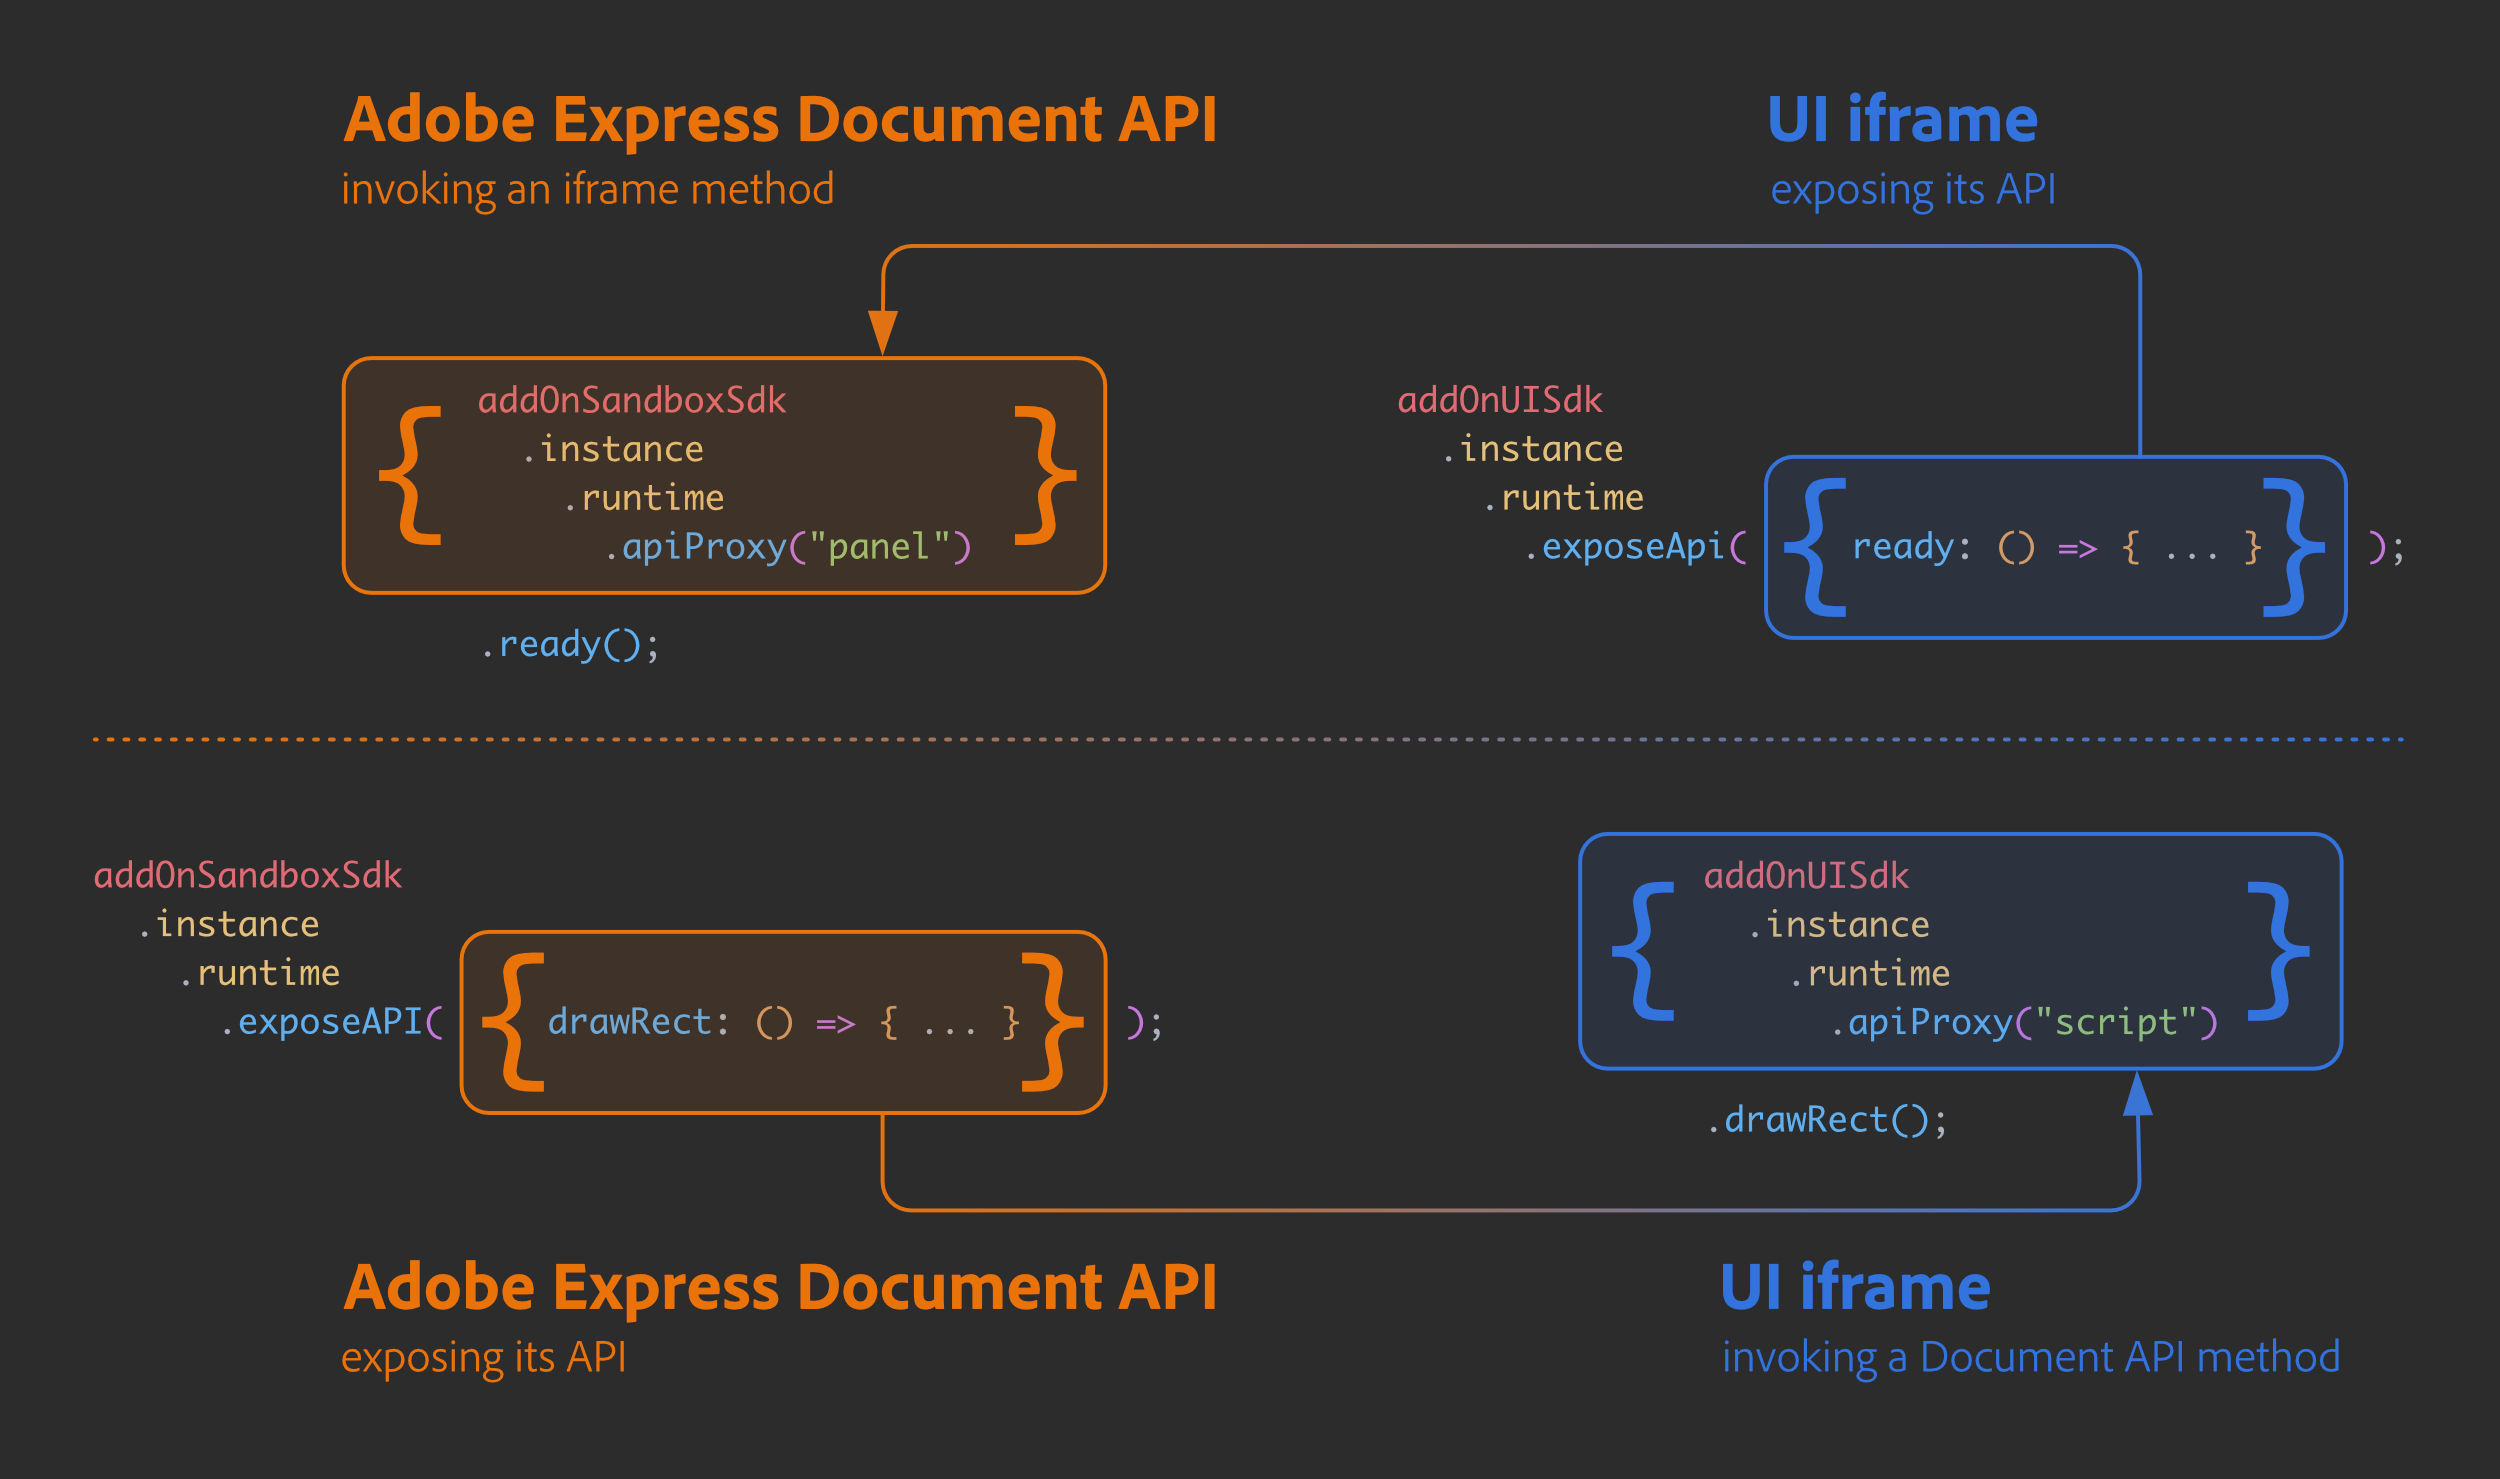
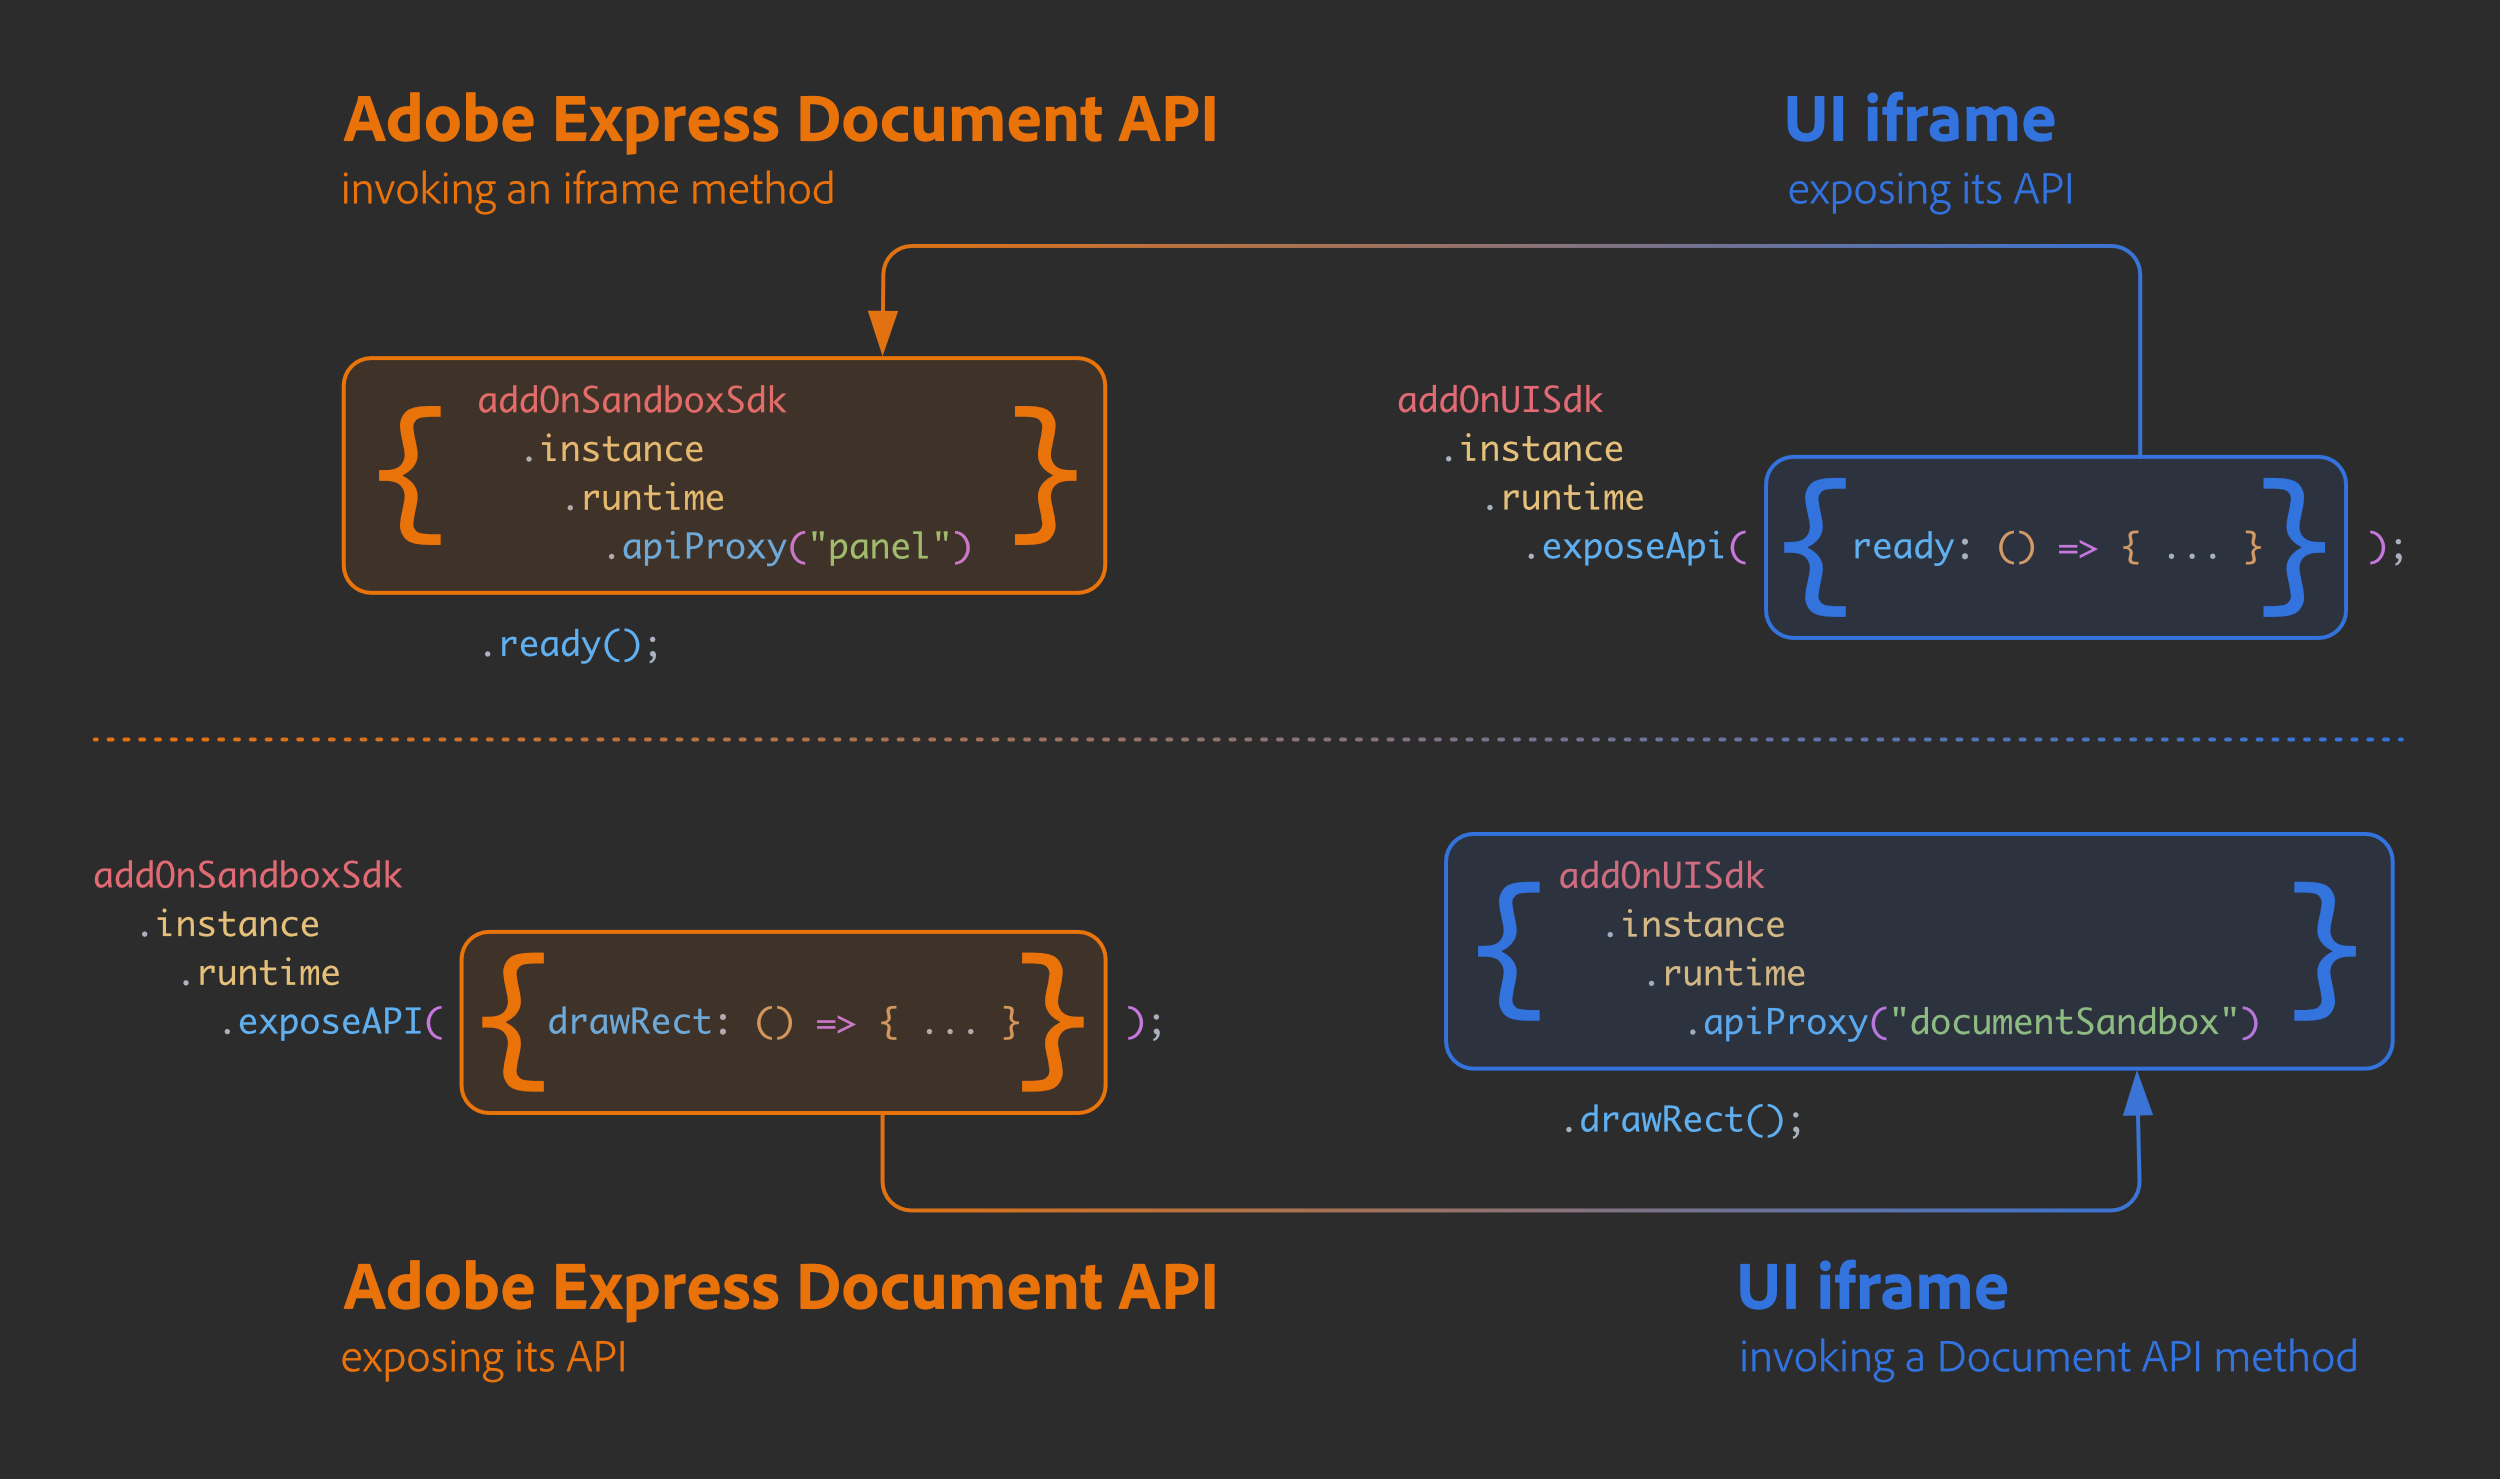
Fix MVP imports and naming Fix screenshots Fix allChildren iterator

diff --git a/src/pages/guides/tutorials/stats-addon.md b/src/pages/guides/tutorials/stats-addon.md
@@ -75,7 +75,7 @@ import addOnUISdk from "https://new.express.adobe.com/static/add-on-sdk/sdk.js";
 const { runtime } = addOnUISdk.instance;
 
 // runtime in the Document Sandbox
-import addOnSandboxSdk from "AddOnScriptSdk";
+import addOnSandboxSdk from "add-on-sdk-document-sandbox";
 const { runtime } = addOnSandboxSdk.instance;
 ```
 
@@ -90,15 +90,11 @@ We'll get to the details of such a payload in a short while; for the moment, thi
 
 ```js
 // UI iframe, importing a payload from the Document Sandbox
-const sandboxProxy = await runtime.apiProxy("script");
+const sandboxProxy = await runtime.apiProxy("documentSandbox");
 
 // Document Sandbox, importing a payload from the UI iframe
 const panelUIProxy = await runtime.apiProxy("panel");
 ```
-
-<InlineAlert slots="text" variant="warning"/>
-
-Warning: the `apiProxy()` string argument `"script"` may be subject to change in future releases.
 
 At this point, `sandboxProxy` and `panelUIProxy` represent their counterparts from the original contexts. It all may be easier to understand when the entire process is written down; for example, in the following code, we expose a custom method called `ready()` defined in the UI iframe to the Document API.
 
@@ -121,7 +117,7 @@ runtime.exposeApi({
 #### Document Sandbox
 
 ```js
-import addOnSandboxSdk from "AddOnScriptSdk";
+import addOnSandboxSdk from "add-on-sdk-document-sandbox";
 const { runtime } = addOnSandboxSdk.instance;
 
 // importing from the iframe
@@ -138,8 +134,20 @@ As the name implies, the `panelUIProxy` constant in the Document Sandbox is a *p
 #### UI iframe
 
 ```js
-// Document Sandbox
-import addOnSandboxSdk from "AddOnScriptSdk";
+import addOnUISdk from "https://new.express.adobe.com/static/add-on-sdk/sdk.js";
+const { runtime } = addOnUISdk.instance;
+
+// importing from the Document Sandbox
+const sandboxProxy = await runtime.apiProxy("documentSandbox");
+
+// We can call this method now
+await sandboxProxy.drawRect();
+```
+
+#### Document Sandbox
+
+```js
+import addOnSandboxSdk from "add-on-sdk-document-sandbox";
 const { runtime } = addOnSandboxSdk.instance;
 
 // exporting a payload to the iframe
@@ -148,20 +156,6 @@ runtime.exposeApi({
     // uss the Document API to draw a Rectangle shape...
   }
 });
-```
-
-#### Document Sandbox
-
-```js
-// iframe
-import addOnUISdk from "https://new.express.adobe.com/static/add-on-sdk/sdk.js";
-const { runtime } = addOnUISdk.instance;
-
-// importing from the Document Sandbox
-const sandboxProxy = await runtime.apiProxy("script");
-
-// We can call this method now
-await sandboxProxy.drawRect();
 ```
 
 The following diagram helps visualize the process.
@@ -225,7 +219,7 @@ Here, `drawRect()` and `drawEllipse()` exist within the closure of the `drawShap
 #### UI iframe
 
 ```js
-const sandboxProxy = await runtime.apiProxy("script");
+const sandboxProxy = await runtime.apiProxy("documentSandbox");
 
 // Calling the exposed method
 const shapesNo = await sandboxProxy.drawShape();
@@ -280,7 +274,7 @@ Nothing prevents you from using something else besides functions in your proxy. 
 
 ```js
 // iframe
-const sandboxProxy = await runtime.apiProxy("script");
+const sandboxProxy = await runtime.apiProxy("documentSandbox");
 
 for (let i = 0; i < 10; i++) {
   await sandboxProxy.drawShape();
@@ -453,7 +447,7 @@ addOnUISdk.ready.then(async () => {
   
   // Import the Document Sandbox API proxy
   const { runtime } = addOnUISdk.instance;
-  const sandboxProxy = await runtime.apiProxy("script");
+  const sandboxProxy = await runtime.apiProxy("documentSandbox");
   // Exposing the iFrame API to the Document Sandbox.
   
   // Set the button's click handler
@@ -499,7 +493,7 @@ In `documentSandbox/code.js`, we bring the iframe proxy in, toggle the status li
 #### documentSandbox/code.js
 
 ```js
-import addOnSandboxSdk from "AddOnScriptSdk";
+import addOnSandboxSdk from "add-on-sdk-document-sandbox";
 const { runtime } = addOnSandboxSdk.instance;
 
 async function start() {
@@ -549,7 +543,7 @@ iframeApi.toggleStatus("iframe"); // 👈
 #### Document Sandbox
 
 ```js
-import addOnSandboxSdk from "AddOnScriptSdk";
+import addOnSandboxSdk from "add-on-sdk-document-sandbox";
 const { runtime } = addOnSandboxSdk.instance;
 
 async function start() {
@@ -643,22 +637,26 @@ const getNodeData = (node, nodeData = {}) => {
   if (node.type === "MediaContainer") {
     return nodeData;
   }
+
   // Check if the current node has children and if they are not an empty array
   if (node.allChildren && node.allChildren.length > 0) {
-    // Iterate over all children
-    node.allChildren.forEach((child) => {
+    // Iterate over all children using for..of
+    for (const child of node.allChildren) {
       // Increase the count for the current type
       increaseCount(nodeData, child.type);
+
       // Recursively call getNodeData for each child that has its own children
       // ... unless it's a MediaContainer
-      if (child.type === "MediaContainer") {
-        return;
-      }
-      if (child.allChildren && child.allChildren.length > 0) {
+      if (
+        child.type !== "MediaContainer" &&
+        child.allChildren &&
+        child.allChildren.length > 0
+      ) {
         getNodeData(child, nodeData);
       }
-    });
+    }
   }
+
   return nodeData;
 };
 
@@ -667,7 +665,7 @@ export { getNodeData };
 
 Given the nature of Adobe Express documents (which will be covered in detail in a future tutorial), it makes sense to build `getNodeData()` as a recursive function: a [`PageNode`](references/document-sandbox/document-apis/classes/PageNode/) can contain multiple [`ArtboardNode`](/references/document-sandbox/document-apis/classes/ArtboardNode/) elements, which in turn can contain multiple [`GroupNode`](/references/document-sandbox/document-apis/classes/GroupNode/) elements, and so on. As follows, the metacode.
 
-1. The `getNodeData()` method begins its execution when called by `getDocumentData()`, taking a single parameter named `page`. At the start, `nodeData` is initialized as an empty object. The method then checks if the current node has the `allChildren` property, which should be a non-empty array. If so, it iterates over this array. During each iteration, it increments the count for the `type` property of each child node (such as `"Text"`, `"Group"`, etc.).
+1. The `getNodeData()` method begins its execution when called by `getDocumentData()`, taking a single parameter named `page`. At the start, `nodeData` is initialized as an empty object. The method then checks if the current node has the `allChildren` property, which should be a non-empty iterable. If so, it goes through it. During each iteration, it increments the count for the `type` property of each child node (such as `"Text"`, `"Group"`, etc.).
 
 2. If a child node within this array also features a non-empty `allChildren` property, `getNodeData()` is called recursively on that child node. Mind you: during these recursive calls, `nodeData` is passed as the second argument. This approach ensures that the same `nodeData` object is continuously used throughout the recursion, allowing it to accumulate and keep tabs on all node types encountered across all hierarchy levels. The `"MediaContainer"` node is a particular one, [^3] and when encountered, we stop there.  
 
@@ -914,7 +912,7 @@ addOnUISdk.ready.then(async () => {
   // Get the Document Sandbox.
   const { runtime } = addOnUISdk.instance;
   // Importing the Document Sandbox API.
-  const sandboxProxy = await runtime.apiProxy("script");
+  const sandboxProxy = await runtime.apiProxy("documentSandbox");
   // Exposing the iframe API to the Document Sandbox.
   runtime.exposeApi(iframeApi);
 
@@ -1011,7 +1009,7 @@ export { rebuildTable };
 #### Document Sandbox
 
 ```js
-import addOnSandboxSdk from "AddOnScriptSdk";
+import addOnSandboxSdk from "add-on-sdk-document-sandbox";
 const { runtime } = addOnSandboxSdk.instance;
 
 import { editor } from "express";
@@ -1061,21 +1059,24 @@ const getNodeData = (node, nodeData = {}) => {
   if (node.type === "MediaContainer") {
     return nodeData;
   }
+
   // Check if the current node has children and if they are not an empty array
   if (node.allChildren && node.allChildren.length > 0) {
-    // Iterate over all children
-    node.allChildren.forEach((child) => {
+    // Iterate over all children using for..of
+    for (const child of node.allChildren) {
       // Increase the count for the current type
       increaseCount(nodeData, child.type);
+
       // Recursively call getNodeData for each child that has its own children
       // ... unless it's a MediaContainer
-      if (child.type === "MediaContainer") {
-        return;
-      }
-      if (child.allChildren && child.allChildren.length > 0) {
+      if (
+        child.type !== "MediaContainer" &&
+        child.allChildren &&
+        child.allChildren.length > 0
+      ) {
         getNodeData(child, nodeData);
       }
-    });
+    }
   }
   return nodeData;
 };
